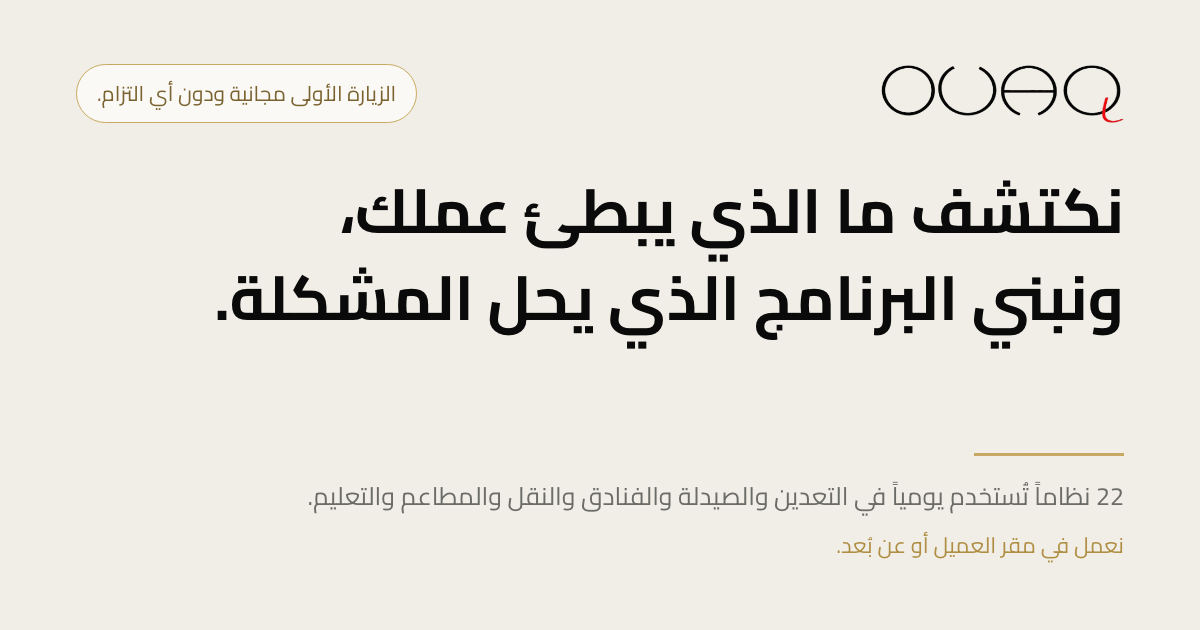
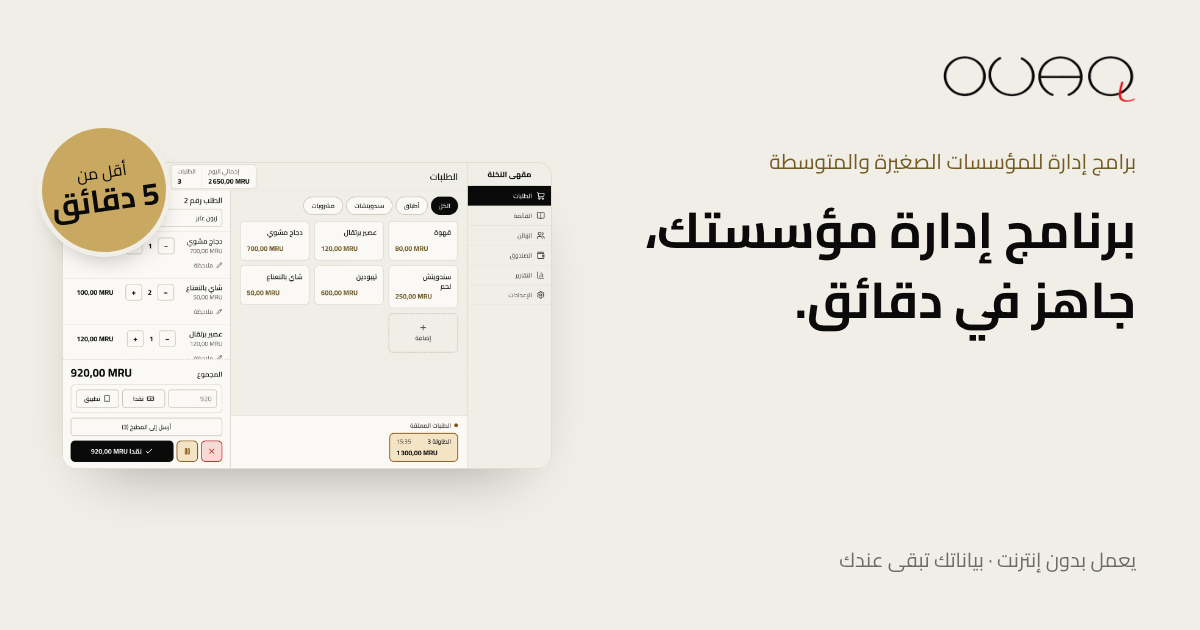
Share previews say what the site says now
The link preview images (Open Graph) still carried the old custom
software pitch. They now show the hero's eyebrow and heading, the till
screenshot with the under-5-minutes sticker, and the reassurance line,
in each language. The script reads the new copy and matches the font
names Next.js 15 writes.

The mail helper is marked server-only, so no browser bundle can pull in
the code that reads the Resend key.

diff --git a/lib/mail.ts b/lib/mail.ts
@@ -1,3 +1,5 @@
+import "server-only";
+
 /*
  * Mail to OUAQT's own inbox, from the server.
  *
